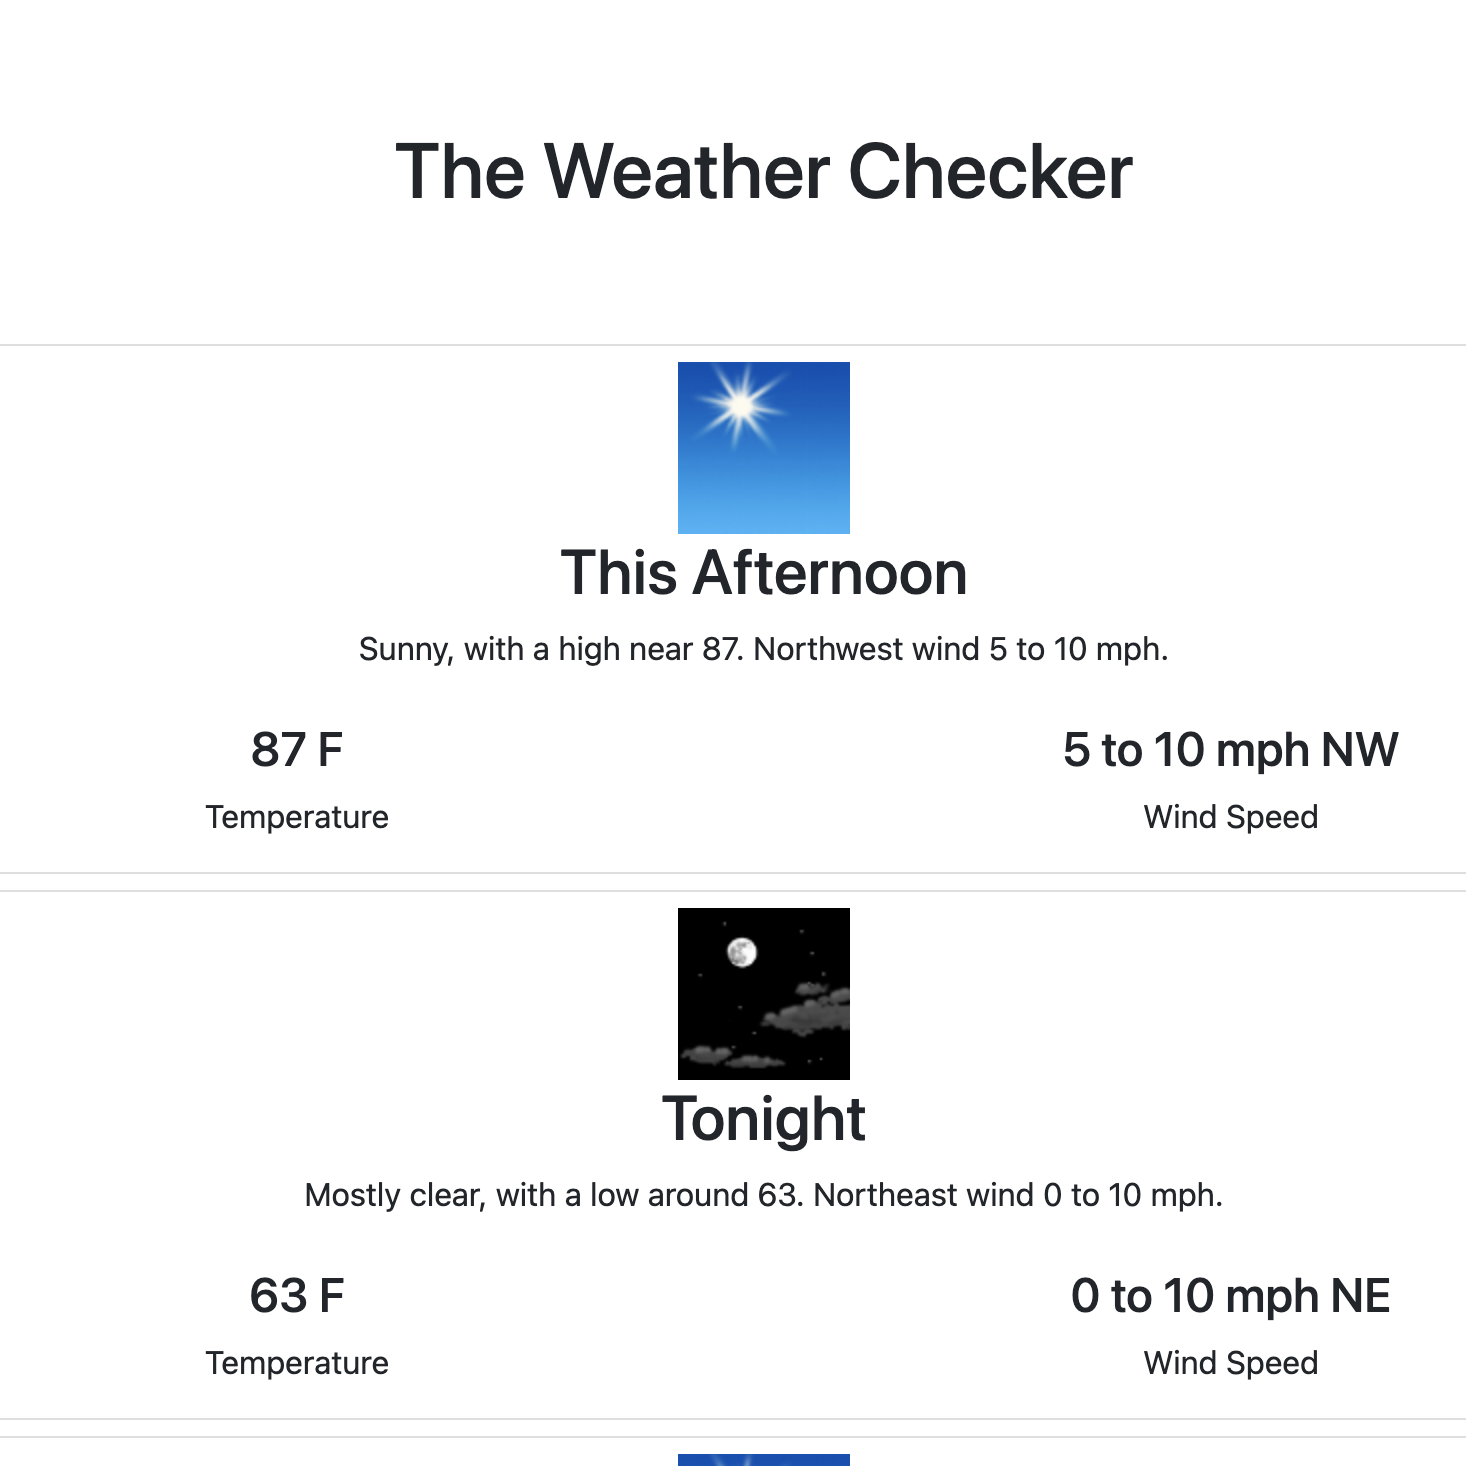
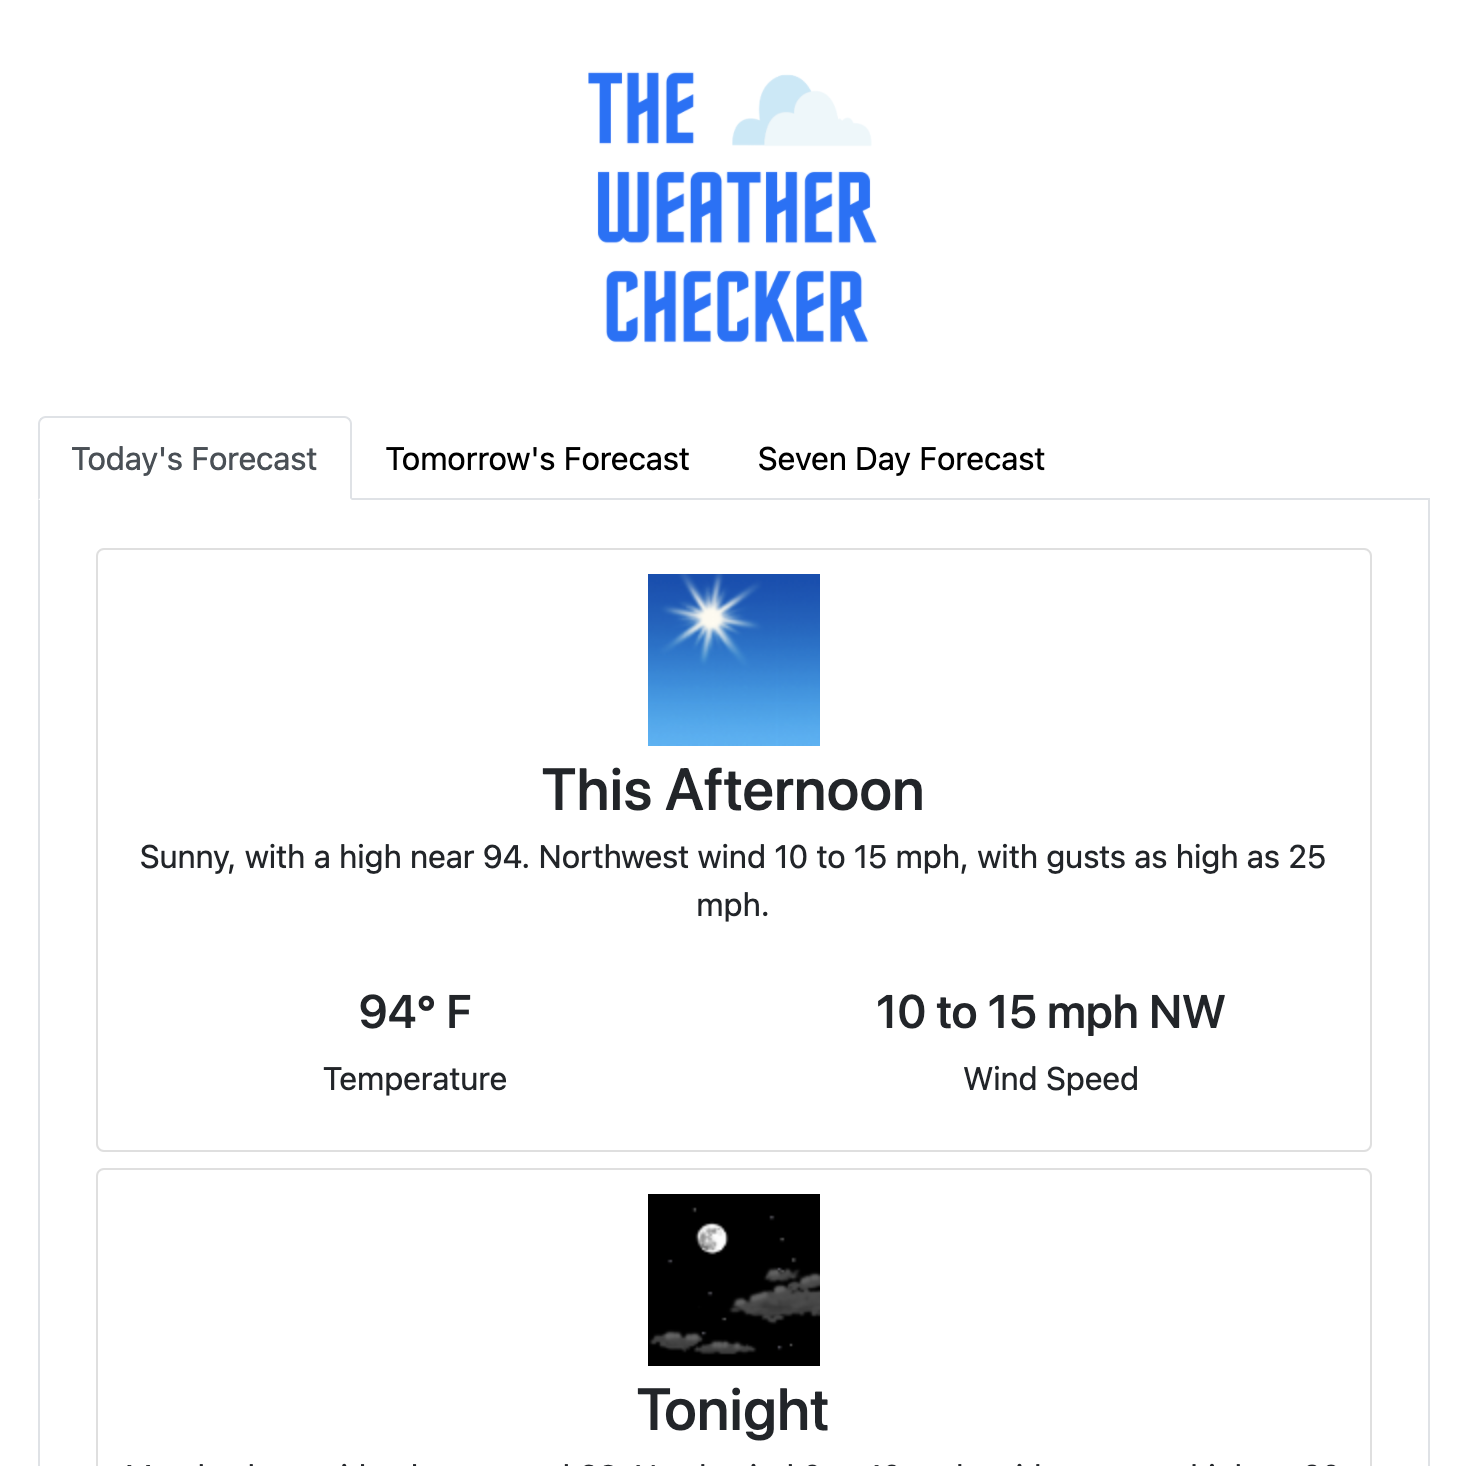
added to weather app

diff --git a/public/js/weather.js b/public/js/weather.js
@@ -1,8 +1,21 @@
-const weatherSubmit = document.getElementById('weatherSubmit');
 const loadingDisplay = document.getElementById('loadingLocation');
+const weatherSubmit = document.getElementById('weatherSubmit');
+const weatherDisplay = document.getElementById('weatherDisplay');
 const myWeather = document.getElementById('myWeather');
+const navTodayBtn = document.getElementById('navTodayBtn');
+const navTomorrowBtn = document.getElementById('navTomorrowBtn');
+const navSevenBtn = document.getElementById('navSevenBtn');
+
+
+
 let lat = null;
 let long = null;
+
+let result;
+
+let todayForecast = true;
+let tomorrowForecast = false;
+let sevenForecast = false;
 
 function submitState() {
   loadingDisplay.style.display = 'none';
@@ -24,7 +37,6 @@ navigator.geolocation.getCurrentPosition(function(position) {
 weatherSubmit.addEventListener('click', function getWeather() {
 
   if(lat && long !== null) {
-    console.log(`Let's Check That Weather!`);
     loadState();
 
     const sendAddress = fetch('/api/weather', {
@@ -38,28 +50,114 @@ weatherSubmit.addEventListener('click', function getWeather() {
       })
     })
     .then(async response => await response.json())
-    .then(data => showWeather(data));
+    .then(data => {
+      result = data;
+      showView();
+    });
+    
   }
-})
+});
 
-function showWeather(data) {
-  loadingDisplay.style.display = 'none';
-  let allWeather = '';
-  data.forEach((result) => {
-    allWeather += `
-    <div class="container mt-2">
+navTodayBtn.addEventListener('click', function() {
+  todayForecast = true;
+  tomorrowForecast = false;
+  sevenForecast = false;
+  navTodayBtn.className = 'nav-link textBlack active';
+  navTomorrowBtn.className = 'nav-link textBlack';
+  navSevenBtn.className = 'nav-link textBlack';
+  showView();
+});
+
+navTomorrowBtn.addEventListener('click', function() {
+  todayForecast = false;
+  tomorrowForecast = true;
+  sevenForecast = false;
+  navTodayBtn.className = 'nav-link textBlack';
+  navTomorrowBtn.className = 'nav-link textBlack active';
+  navSevenBtn.className = 'nav-link textBlack';
+  showView();
+});
+
+navSevenBtn.addEventListener('click', function() {
+  todayForecast = false;
+  tomorrowForecast = false;
+  sevenForecast = true;
+  navTodayBtn.className = 'nav-link textBlack';
+  navTomorrowBtn.className = 'nav-link textBlack';
+  navSevenBtn.className = 'nav-link textBlack active';
+  showView();
+});
+
+
+function firstView(data) {
+  let todayArr = [];
+
+  if(data[0].isDaytime == true) {
+    todayArr.push(data[0]);
+    todayArr.push(data[1]);
+  } else {
+    todayArr.push(data[0]);
+  }
+
+
+  let todayWeather = '';
+  todayArr.forEach((result) => {
+    todayWeather += `
+    <div class="container my-2">
       <div class="card">
         <div class="container">
-          <div class="row m-2">
-            <div class="col">
+          <div class="row my-2">
+            <div class="col my-1">
               <img src="${result.icon}" alt="Weather Icon">
-              <h2>${result.name}</h2>
+              <h2 class="m-1">${result.name}</h2>
               <p>${result.detailedForecast}</p>
             </div>
           </div>
-          <div class="row m2">
+          <div class="row my-2">
             <div class="col">
-              <h4>${result.temperature} ${result.temperatureUnit}</h4>
+              <h4>${result.temperature}&#176 ${result.temperatureUnit}</h4>
+              <p>Temperature</p>
+            </div>
+            <div class="col">
+              <h4>${result.windSpeed} ${result.windDirection}</h4>
+              <p>Wind Speed</p>
+            </div>
+          </div>
+        </div>
+      </div>
+    </div>
+    `;
+  });
+  myWeather.innerHTML = todayWeather;
+}
+
+function secondView(data) {
+  let tomorrowArr = [];
+
+  if(data[0].isDaytime == true) {
+    tomorrowArr.push(data[2]);
+    tomorrowArr.push(data[3]);
+  } else {
+    tomorrowArr.push(data[1]);
+    tomorrowArr.push(data[2]);
+  }
+
+  let tomorrowWeather = '';
+  tomorrowArr.forEach((result) => {
+    tomorrowWeather += `
+    <div class="container my-2">
+      <div class="card">
+        <div class="container">
+          <div class="row my-2">
+            <div class="co my-1">
+              <img src="${result.icon}" alt="Weather Icon">
+              <h2 class="m-1">${result.name}</h2>
+              <p>${result.detailedForecast}</p>
+            </div>
+          </div>
+          <div class="row my-2">
+            <div class="col">
+              <h4>${result.temperature}&#176 ${result.temperatureUnit}</h4>
               <p>Temperature</p>
             </div>
             <div class="col">
@@ -72,5 +170,51 @@ function showWeather(data) {
     </div>
     `
   });
-  myWeather.innerHTML = allWeather;
+  myWeather.innerHTML = tomorrowWeather;
 }
+
+function thirdView(data) {
+
+  let sevenWeather = '';
+  data.forEach((result) => {
+    sevenWeather += `
+    <div class="container my-2">
+      <div class="card">
+        <div class="container">
+          <div class="row">
+            <div class="col-8 my-auto">
+              <h4 class="my-auto">${result.name}</h4>
+              <p class="my-auto">${result.shortForecast}</p>
+            </div>
+            <div class="col-2 my-auto">
+              <img src="${result.icon}" alt="Weather Icon" width="50" height="50">
+            </div>
+            <div class="col-2 my-auto">
+              <h5 class="my-2">${result.temperature}&#176 ${result.temperatureUnit}</h5>
+              <p>${result.windSpeed} ${result.windDirection}</p>
+            </div>
+            
+          </div>
+        </div>
+      </div>
+    </div>
+    `
+  });
+  myWeather.innerHTML = sevenWeather;
+}
+
+function showView() {
+  loadingDisplay.style.display = 'none';
+  weatherDisplay.style.display = 'block';
+
+  if(todayForecast == true) {
+    firstView(result);
+  }
+  if(tomorrowForecast == true) {
+    secondView(result);
+  }
+  if(sevenForecast == true) {
+    thirdView(result);
+  }
+}
+

diff --git a/public/html/weather.html b/public/html/weather.html
@@ -6,7 +6,7 @@
   <meta name="viewport" content="width=device-width, initial-scale=1.0">
   <link href="https://cdn.jsdelivr.net/npm/bootstrap@5.0.2/dist/css/bootstrap.min.css" rel="stylesheet" integrity="sha384-EVSTQN3/azprG1Anm3QDgpJLIm9Nao0Yz1ztcQTwFspd3yD65VohhpuuCOmLASjC" crossorigin="anonymous">
   <link rel="stylesheet" href="../css/weather.css">
-  <title>Weather</title>
+  <title>The Weather Checker</title>
 </head>
 <body class="text-center">
   <nav class="navbar bg-dark mb-2">
@@ -22,21 +22,35 @@
     </ul>
   </nav>
   
-  <div class="container m-5">
-    <h1 class="mt-5 p-3">The Weather Checker</h1>
-
-  <div id="loadingLocation" class="m-5">
-    <p>Please Wait...</p>
-    <div class="spinner-border" role="status">
-      <span class="visually-hidden">Loading...</span>
+  <div class="container">
+    <img src="../img/weatherCheckerIcon.png" alt="Weather Checker Icon" width="200" height ="200">
+    <div id="loadingLocation" class="my-5">
+      <p>Please Wait...</p>
+      <div class="spinner-border" role="status">
+        <span class="visually-hidden">Loading...</span>
+      </div>
+    </div>
+    
+    <div>
+      <button type="button" id="weatherSubmit" class="btn btn-primary my-5" style="display: none">Check Your Weather</button>
     </div>
   </div>
-  
-  <div>
-    <button type="button" id="weatherSubmit" class="btn btn-primary m-5" style="display: none">Let's Check!</button>
-  </div>
 
-  <div id="myWeather"></div>
+  <div id="weatherDisplay" class="container" style="display: none;">
+    <ul class="nav nav-tabs mx-auto">
+      <li class="nav-item">
+        <button id="navTodayBtn" class="nav-link textBlack active" aria-current="page">Today's Forecast</button>
+      </li>
+      <li class="nav-item">
+        <button id="navTomorrowBtn" class="nav-link textBlack">Tomorrow's Forecast</button>
+      </li>
+      <li class="nav-item">
+        <button id="navSevenBtn" class="nav-link textBlack">Seven Day Forecast</button>
+      </li>
+    </ul>
+    <div class="border border-top-0 p-3">
+      <div id="myWeather"></div>
+    </div>
   </div>
   
   <script src="https://cdn.jsdelivr.net/npm/bootstrap@5.0.2/dist/js/bootstrap.bundle.min.js" integrity="sha384-MrcW6ZMFYlzcLA8Nl+NtUVF0sA7MsXsP1UyJoMp4YLEuNSfAP+JcXn/tWtIaxVXM" crossorigin="anonymous"></script>

diff --git a/routes/index.js b/routes/index.js
@@ -36,9 +36,7 @@ router.get('/herofight', (req, res) => {
 
 router.post('/api/weather', async (req, res) => {
   const { lat, long } = req.body;
-  console.log('Hit Weather API');
   
-
   const api = await fetch(`https://api.weather.gov/points/${lat},${long}`)
   .then(response => response.json())
   .then(data => {
@@ -46,7 +44,6 @@ router.post('/api/weather', async (req, res) => {
     .then(response => response.json())
     .then(data => {
       const weather = data.properties.periods;
-      const temp = data.properties.periods[0].temperature;
       res.send(JSON.stringify(weather));
     });
 

diff --git a/public/css/weather.css b/public/css/weather.css
@@ -13,3 +13,12 @@ input[type=number] {
 .nav-link-white {
   color: white !important;
 }
+
+.textBlack {
+  color: #000;
+}
+
+.textBlack:hover {
+  color: #fff;
+  background-color: #0B6EFD;
+}
